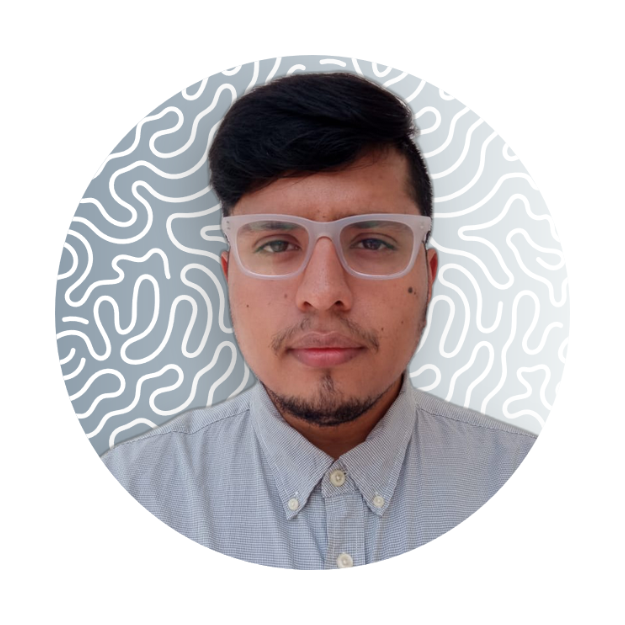
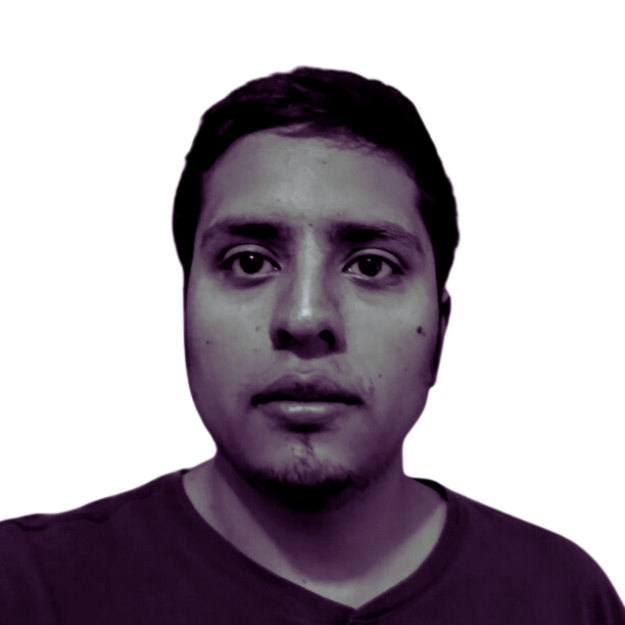
diseno

diff --git a/Portafolio1/src/components/intro/intro.css b/Portafolio1/src/components/intro/intro.css
@@ -1,23 +1,29 @@
 .i {
-
     display: flex;
     height: 100vh;
 }
 
 .i-left {
     flex: 3;
-    color: #791b50;
-    background-color: aqua;
+    display: flex;
+    align-items: center;
+    justify-content: center;
+    background-color:#2a2e3a;
+    color: #00ffff;
 }
 
 .i-right {
     flex: 2;
-    color: aqua;
-    background-color: #791b50;
+    background-color: #00ffff;
+    position: relative;
+    
 }
 
 .i-left-wrapper {
     padding: 50px;
+    height: 60%;
+    display: flex;
+    flex-direction: column;
 }
 
 .i-intro{
@@ -36,9 +42,7 @@
     animation: move 10s ease-in-out infinite alternate;
 }
 @keyframes move{
-    25%{
-        transform: translateY(-50px);
-    }
+    25%{transform: translateY(-50px);}
     50%{transform: translateY(-100px)}
     75%{transform: translateY(-150px)}
     100%{transform: translateY(-200px)}
@@ -49,4 +53,20 @@
     font-weight: 700;
     display: flex;
     align-items: center;
+    
+}
+.i-bg{
+    clip-path: polygon(25% 0%, 0 49%, 17% 81%, 91% 100%, 0 100%, 0 0);
+    background-color:#2a2e3a;
+    width: 100%;
+    height: 100%;
+    position: absolute;
+    top: 0;
+    right: 0;
+}
+
+.i-img{
+    width: 100%;
+    height: 100%;
+    object-fit: cover;
 }

diff --git a/Portafolio1/src/components/intro/Intro.jsx b/Portafolio1/src/components/intro/Intro.jsx
@@ -1,5 +1,6 @@
 import React from 'react'
 import './intro.css'
+import alexImg from '../../assets/alejandro.png'
 const Intro = () => {
     return (
         <section className='i'>
@@ -17,15 +18,15 @@ const Intro = () => {
                         </div>
                     </div>
                     <div className='i-desc'>
-                        <p>Soy un ingeniero de software mexicano y especialista en accesibilidad,
-                            me encanta mezclar el arte del diseño con el tecnicismo de la informática
-                            para crear experiencias de usuario cautivadoras y abiertas para todas las personas
-                        </p>
+                        Soy un ingeniero de software mexicano y especialista en accesibilidad,
+                        me encanta mezclar el arte del diseño con el tecnicismo de la informática
                     </div>
                 </div>
             </article>
             <article className="i-right">
-                right</article>
+                <div className='i-bg'></div>
+                <img src={alexImg} alt="Fotografia de Alejandro Nava" className='i-img'/>
+            </article>
         </section>
     )
 }
